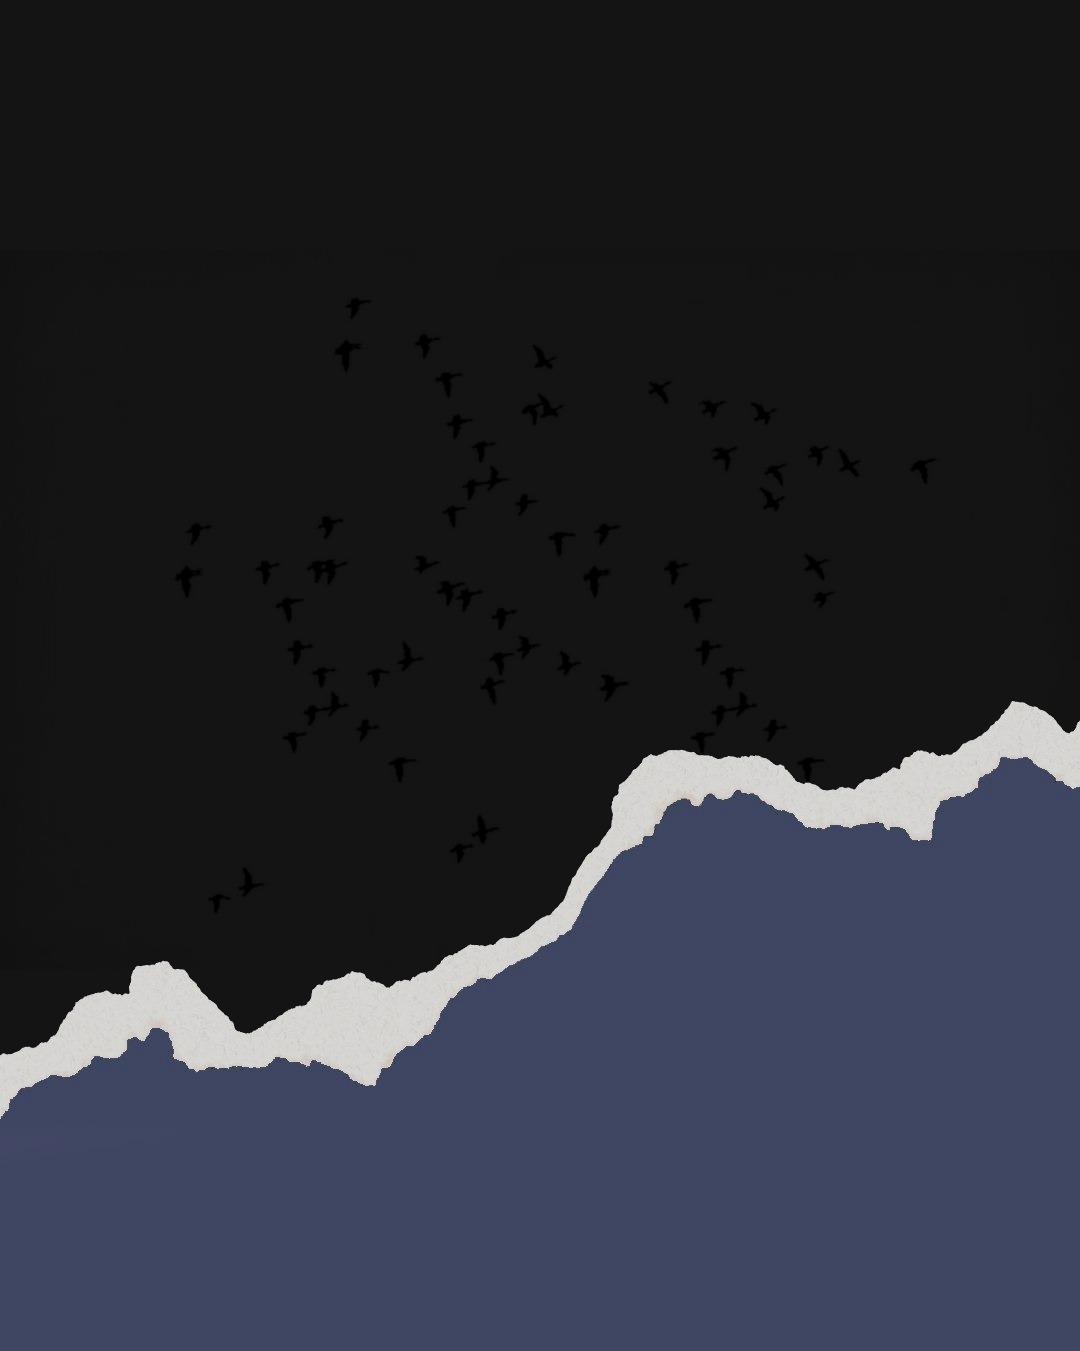
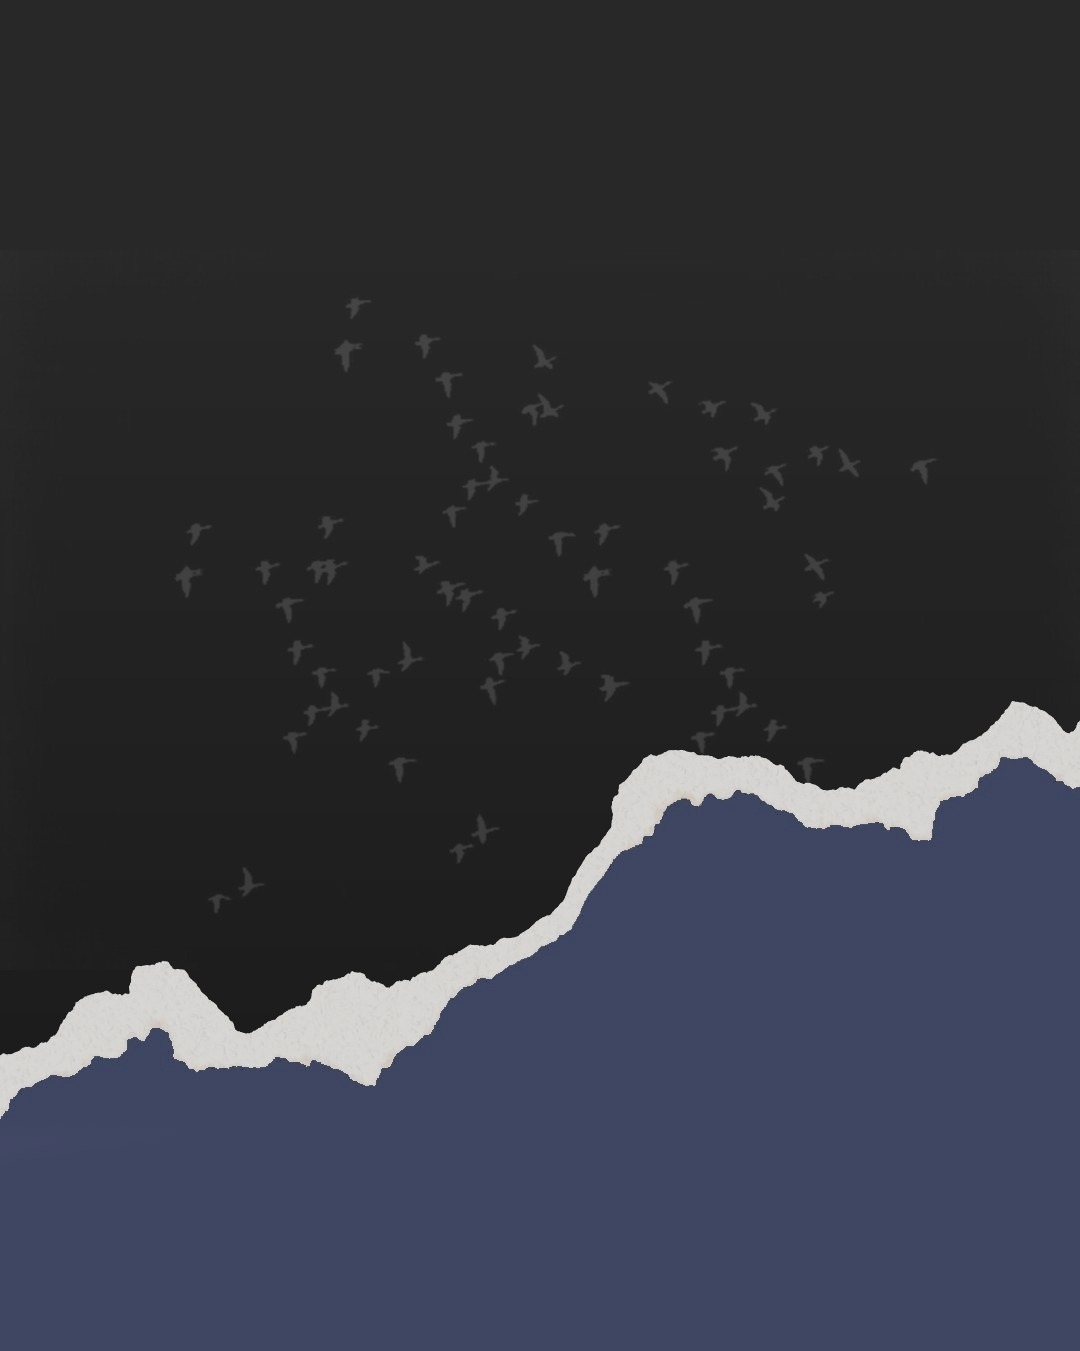
Картка цивільних: інверсія — світлі птахи на темному графіті
Claude-Session: https://claude.ai/code/session_01Eo5Ls7WERv17HCUegx7kSx

diff --git a/card.py b/card.py
@@ -201,6 +201,8 @@ def background(category: str):
     bg = Image.open(path).convert("RGB")
     bg = bg.resize((W, round(bg.height * W / bg.width)), Image.LANCZOS)
     bg = bg.crop((0, bg.height - H, W, bg.height))
+    if Path(path).stem.endswith("_birds"):        # тло з птахами вже готове: темний графіт, світлі птахи
+        return bg
     # темна частина підкладки майже чорна — піднімаємо її до графіту АКМЦ (#3c3c3c),
     # зберігаючи ледь помітну текстуру; папір і кольорова смуга не змінюються
     dark = ImageOps.grayscale(bg).point(lambda v: 255 if v < 40 else max(0, 255 - (v - 40) * 12))
